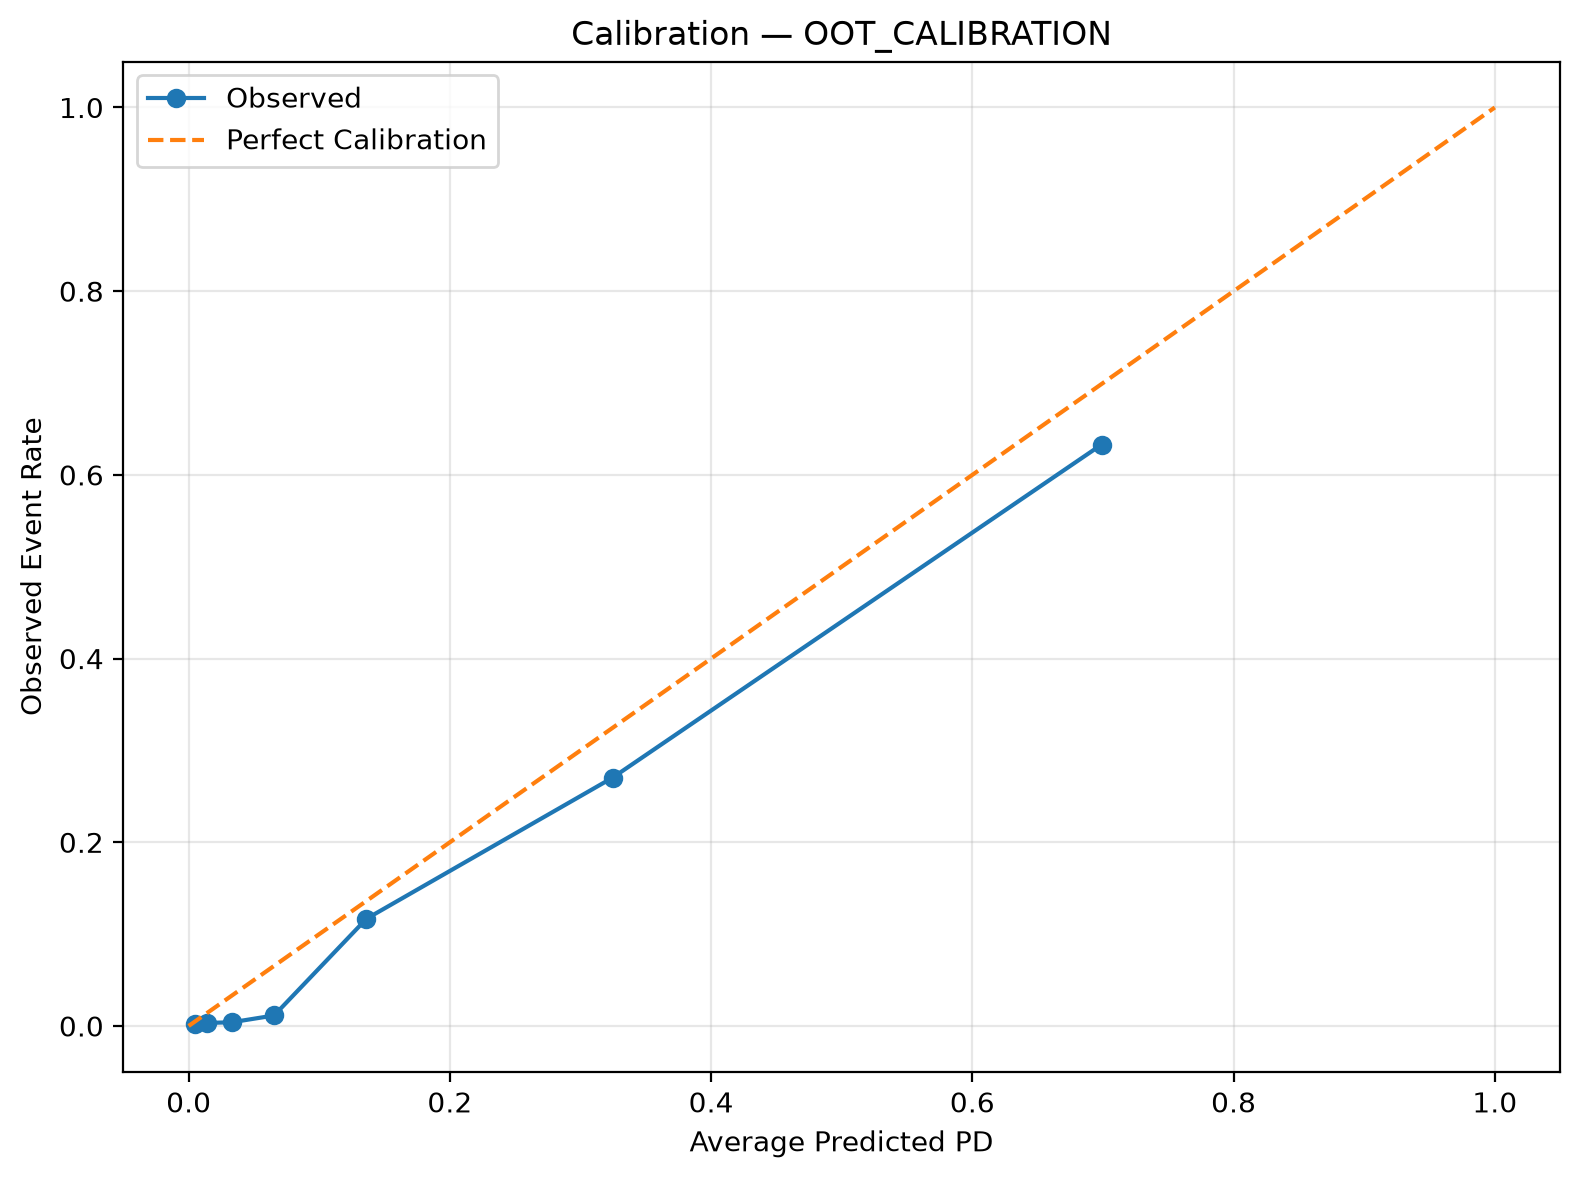
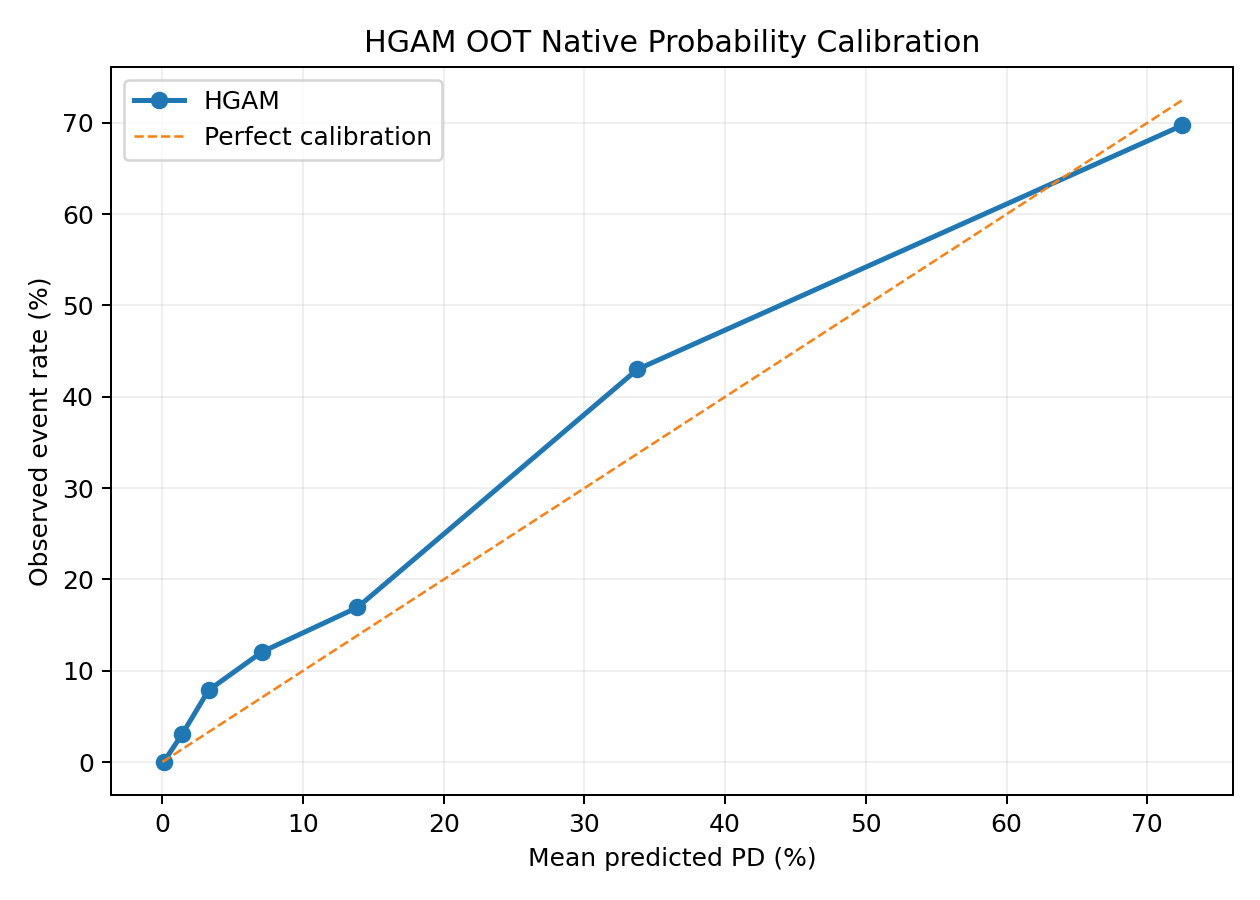
feat: final model specs and results

diff --git a/docs/final_model_specification_hgam.md b/docs/final_model_specification_hgam.md
@@ -1,0 +1,355 @@
+# Final Model Specification
+
+## Overview
+
+The final mortgage credit-risk model is the **HGAM configuration `gam_macro_3_horizon`**. It is designed to estimate the probability that a mortgage will experience a **90+ days past due (90 DPD) event within the next 3 months**, using information available at the observation month.
+
+The final model uses observations at **3, 6, 9, and 12 months of loan age** and combines origination characteristics, recent borrower/payment behaviour, delinquency trajectory signals, loan evolution variables, and macroeconomic conditions.
+
+The final fitted artifact documented here uses a **Hierarchical Generalized Additive Model (HGAM)** with nonlinear spline effects, selected pairwise interactions, state-level hierarchical effects, and group-varying smooths.
+
+---
+
+## 1. Model Definition
+
+| Component | Final specification |
+|---|---|
+| Model version | `gam_macro_3_horizon` |
+| Algorithm | Hierarchical GAM (HGAM) |
+| Target | `future_90dpd` |
+| Prediction horizon | 3 months |
+| Observation ages | 3, 6, 9, 12 months |
+| Training vintages | 2015–2020 |
+| Validation | 20% stratified split within training data |
+| Test vintage | 2021 |
+| Out-of-time (OOT) vintage | 2022 |
+| Random seed | 42 |
+| Class weighting | Disabled |
+| Numerical features | 54 |
+| Categorical features | 12 |
+| Total model features | 66 |
+| GAM spline degree | 3 |
+| GAM knots | 6 |
+| Knot strategy | Quantile |
+| GAM interactions | Enabled; 20 configured pairs |
+| HGAM grouping | `property_state` |
+| HGAM group intercept | Enabled |
+| HGAM varying smooths | Enabled; 7 features |
+| Hierarchical shrinkage | Enabled |
+
+The training artifact contains **43,114,736 training observations** and **15,827,668 validation observations**, with a training event rate of approximately **0.262%**.
+
+---
+
+## 2. Feature Architecture
+
+The final model combines four broad information groups.
+
+### Origination and structural risk
+
+Examples include:
+
+- `credit_score`
+- `original_dti`
+- `original_ltv`
+- `original_cltv`
+- `original_upb`
+- `number_of_borrowers`
+- `mi_percentage`
+- `property_type`
+- `occupancy_status`
+- `loan_purpose`
+- `channel`
+- `property_state`
+
+### Current loan state
+
+Examples include:
+
+- `current_actual_upb`
+- `current_interest_rate`
+- `estimated_ltv`
+- `calculated_loan_age`
+- `remaining_months_to_legal_maturity`
+- `rate_change_from_origination`
+- `upb_pct_change_from_origination`
+
+### Behavioural and delinquency trajectory
+
+The model explicitly incorporates both recent and cumulative behaviour, including:
+
+- 3- and 12-month delinquency counts
+- maximum delinquency severity
+- delinquency streaks
+- months since recent delinquency
+- delinquency trend and acceleration
+- delinquency severity change
+- delinquency intensity change
+- delinquency episode count
+- relapse behaviour
+- modification, payment-deferral and assistance-plan history
+- disaster-related delinquency
+- interest-rate step activity
+
+This allows the model to distinguish a loan's **current state** from the **direction and persistence of deterioration**.
+
+### Macroeconomic environment
+
+The final GAM includes nonlinear effects for:
+
+- `unemployment_rate`
+- `mortgage_rate_30y`
+- `hpi_purchase_only`
+- `fed_funds_rate`
+
+---
+
+## 3. Nonlinear Effects
+
+The GAM uses cubic splines with six quantile-based knots for selected variables where a linear relationship is not assumed.
+
+The spline variables are:
+
+```text
+credit_score
+original_dti
+original_ltv
+original_cltv
+estimated_ltv
+current_interest_rate
+current_actual_upb
+remaining_months_to_legal_maturity
+dpd_trend_6m
+dpd_acceleration_6m
+dpd_severity_change_6m
+current_delinquency_streak
+max_delinquency_streak_12m
+months_since_last_30dpd
+months_since_last_60dpd
+delinquency_intensity_change_6m
+unemployment_rate
+mortgage_rate_30y
+hpi_purchase_only
+fed_funds_rate
+```
+
+All other numerical variables use the default linear numerical effect unless otherwise specified by the model configuration.
+
+---
+
+## 4. GAM Interaction Structure
+
+The final model enables 20 configured pairwise interactions. These are concentrated around the interaction between borrower credit quality, leverage, affordability, interest-rate pressure, and delinquency trajectory.
+
+| # | Interaction |
+|---:|---|
+| 1 | `credit_score × estimated_ltv` |
+| 2 | `credit_score × modification_flag` |
+| 3 | `estimated_ltv × occupancy_status` |
+| 4 | `dpd_trend_6m × property_type` |
+| 5 | `dpd_trend_6m × dpd_acceleration_6m` |
+| 6 | `original_dti × credit_score` |
+| 7 | `dpd_trend_6m × estimated_ltv` |
+| 8 | `dpd_acceleration_6m × estimated_ltv` |
+| 9 | `dpd_trend_6m × credit_score` |
+| 10 | `dpd_acceleration_6m × credit_score` |
+| 11 | `dpd_severity_change_6m × credit_score` |
+| 12 | `delinquency_intensity_change_6m × credit_score` |
+| 13 | `dpd_severity_change_6m × estimated_ltv` |
+| 14 | `delinquency_intensity_change_6m × estimated_ltv` |
+| 15 | `current_delinquency_streak × estimated_ltv` |
+| 16 | `original_dti × estimated_ltv` |
+| 17 | `original_dti × original_ltv` |
+| 18 | `current_interest_rate × original_dti` |
+| 19 | `rate_change_from_origination × original_dti` |
+| 20 | `rate_change_from_origination × estimated_ltv` |
+
+These interactions allow the model to represent cases where the same behavioural signal has different risk implications depending on the borrower's credit quality, leverage, affordability, or loan characteristics.
+
+---
+
+## 5. Hierarchical GAM Architecture
+
+The final model extends the global GAM with hierarchical geographic structure using `property_state` as the grouping variable.
+
+### Group-level intercept
+
+A state-level hierarchical intercept allows baseline PD to vary across states rather than forcing a single global baseline risk.
+
+### Group-varying smooths
+
+The nonlinear relationship between selected risk drivers and PD is allowed to vary by state while retaining a shared global smooth. The configured varying smooths are:
+
+```text
+dpd_trend_6m
+dpd_acceleration_6m
+dpd_severity_change_6m
+delinquency_intensity_change_6m
+estimated_ltv
+rate_change_from_origination
+credit_score
+```
+
+### Hierarchical shrinkage
+
+Group-specific deviations are subject to hierarchical shrinkage toward the shared global relationship. This provides a compromise between a single global GAM and completely independent state-level models, reducing the risk of unstable estimates in smaller groups.
+
+The modelling motivation is that mortgage risk relationships can differ across local housing and economic markets. The same borrower deterioration, leverage, or credit-quality signal need not have identical implications for near-term default across states.
+
+---
+
+## 6. Validation and Temporal Performance
+
+### Validation — 2021 holdout
+
+| Metric | Result |
+|---|---:|
+| ROC-AUC | **0.9296** |
+| PR-AUC | **0.5040** |
+| KS | **0.7942** |
+| Log loss | **0.00474** |
+| Brier score | **0.00087** |
+| Actual event rate | **0.132%** |
+| Mean predicted probability | **0.124%** |
+| Observed / expected ratio | **1.071** |
+| ECE | **0.00059** |
+| MCE | **0.20573** |
+
+![Validation ROC curve](assets/final_model_validation_roc.png)
+
+### Out-of-time — 2022
+
+The 2022 OOT evaluation provides the more important test of temporal robustness because it represents a genuinely later vintage and a materially different credit environment.
+
+| Metric | Final HGAM OOT |
+|---|---:|
+| ROC-AUC | **0.9258** |
+| PR-AUC | **0.4605** |
+| KS | **0.7874** |
+| Log loss | **0.00814** |
+| Brier score | **0.00159** |
+| Actual event rate | **0.231%** |
+| Mean predicted probability | **0.247%** |
+| Observed / expected ratio | **0.935** |
+| ECE | **0.00094** |
+| MCE | **0.09240** |
+
+The final HGAM retains strong discrimination from validation to OOT, with ROC-AUC **0.9296 → 0.9258** and KS **0.7942 → 0.7874**. The relatively small change across the temporal split provides evidence of strong temporal transportability.
+
+The OOT PR-AUC should still be interpreted together with the underlying event prevalence.
+
+![OOT ROC curve](assets/final_model_oot_roc.png)
+
+## 7. Risk Concentration and Portfolio Ranking
+
+The model produces strong concentration of realised events in the highest-risk portion of the portfolio.
+
+### OOT top-risk performance
+
+| Portfolio fraction | Event capture | Precision | Lift |
+|---:|---:|---:|---:|
+| Top 5% | **82.70%** | 3.82% | **16.54×** |
+| Top 10% | **85.29%** | 1.97% | **8.53×** |
+| Top 20% | **88.41%** | 1.02% | **4.42×** |
+
+![OOT risk decile performance](assets/final_model_oot_risk_deciles.png)
+
+The top 10% of the OOT population contains approximately **85.3% of realised events**, corresponding to **8.53× portfolio-average lift**. This demonstrates strong concentration of realised events in the highest-risk portion of the portfolio and supports use for targeted risk management.
+
+## 8. Native Probability Quality
+
+The final HGAM retains its **native/raw predicted probabilities** and does not apply a post-hoc calibration layer.
+
+On the 2022 OOT sample:
+
+- Mean predicted probability: **0.247%**
+- Actual event rate: **0.231%**
+- Observed / expected ratio: **0.935**
+- Brier score: **0.00159**
+- Log loss: **0.00814**
+- ECE: **0.00094**
+- MCE: **0.09240**
+
+The aggregate probability scale is substantially closer to realised event frequency than the earlier GAM benchmark. The risk-decile results also show sensible ordering and a close relationship between predicted and realised risk in the highest-risk decile.
+
+The decision to retain native probabilities is deliberate: the raw HGAM already provides strong probability behaviour OOT, so an additional post-hoc calibration layer is not required for the final Phase 1 model.
+
+![OOT probability calibration](assets/final_model_oot_calibration.png)
+
+![OOT predicted vs observed risk by decile](assets/final_model_oot_decile_calibration.png)
+
+## 9. Operating Threshold
+
+A threshold of **0.26** is retained for the reported final HGAM classification operating point.
+
+On the 2022 OOT sample:
+
+| Metric | Result |
+|---|---:|
+| Threshold | 0.26 |
+| Precision | **60.73%** |
+| Recall | **43.43%** |
+| F1 | **0.5064** |
+| True negatives | 6,125,853 |
+| False positives | 3,987 |
+| False negatives | 8,031 |
+| True positives | 6,165 |
+
+The threshold should be viewed as an **operating-policy choice**, not an intrinsic property of the model. In a production setting it would normally be tuned against the economic cost of missed defaults, false positives, intervention capacity, and portfolio constraints.
+
+## 10. Model Governance and Reproducibility
+
+The final artifact stores the model, preprocessing pipeline, training configuration, metadata, and evaluation outputs. The configuration records the exact training vintages, split strategy, random seed, model algorithm, GAM spline settings, interaction specification, and feature lists.
+
+The modelling process is intentionally separated into:
+
+1. **Point-in-time feature construction**
+2. **Temporal train/validation/test/OOT evaluation**
+3. **Model fitting**
+4. **Ranking/discrimination assessment**
+5. **Native probability quality assessment**
+6. **Threshold evaluation**
+
+This separation is important for avoiding future-information leakage and for distinguishing ranking performance from probability calibration and downstream operating decisions.
+
+---
+
+## 11. Interpretation of the Final Results
+
+The final model demonstrates four distinct strengths:
+
+1. **Discrimination:** the HGAM achieves ROC-AUC **0.9258**, PR-AUC **0.4605**, and KS **0.7874** on the 2022 OOT vintage.
+2. **Risk concentration:** the highest-risk 10% of the OOT population captures approximately **85.3% of realised events**, with **8.53× lift**.
+3. **Native probability quality:** the mean predicted PD (**0.247%**) is close to the observed event rate (**0.231%**), producing an observed/expected ratio of **0.935** without post-hoc calibration.
+4. **Hierarchical modelling:** the HGAM allows geographic risk heterogeneity through a state-level group effect and group-varying smooths while retaining shared global nonlinear structure.
+
+The model's strong OOT performance indicates that the hierarchical extension captures useful geographic heterogeneity while preserving the underlying behavioural and macroeconomic structure of the GAM.
+
+The remaining local calibration gaps are an important limitation rather than a result to hide. The aggregate native probability scale is strong, but monitoring remains appropriate as portfolio composition and the underlying economic regime change materially.
+
+## 12. Artifact Contents
+
+The final model package contains:
+
+```text
+gam/
+├── model.joblib/
+├── preprocessor.joblib/
+├── training_config.yaml
+├── training_metadata.json
+└── model_evaluation/
+    ├── validation/
+    └── oot/
+```
+
+The evaluation directories contain the corresponding metric JSON files, Excel evaluation reports, ROC/KS/calibration plots, risk-decile outputs, and the validation threshold summary.
+
+---
+
+## Related Documentation
+
+- [`README.md`](../README.md)
+- [`Modelling Methodology`](modelling-methodology.md)
+- [`Project Flow`](project_flow.md)
+- [`GAM Interactions`](gam_interactions.md)
+- [`V1 → V2 Detailed Rationale`](V1_to_V2_detailed_rationale.md)
